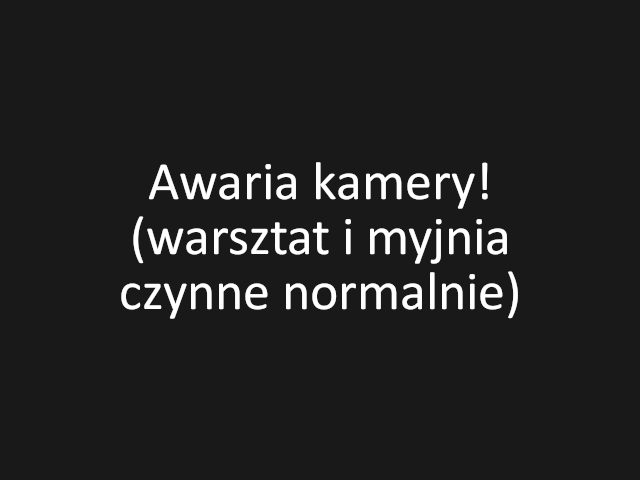
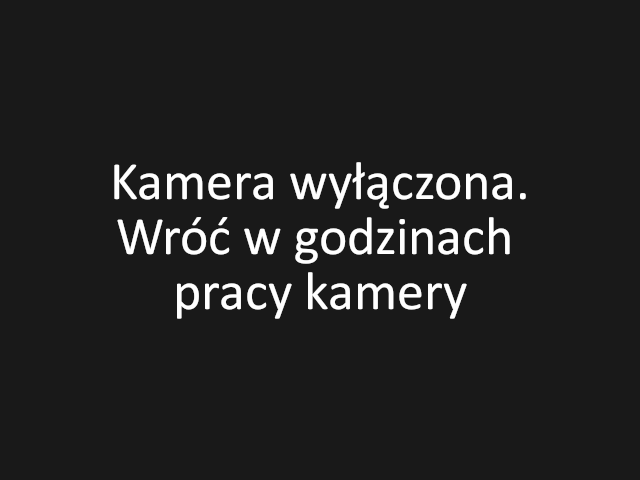
fix of cached img instead new one

Changed region(s): [[0.1562, 0.3438, 0.8125, 0.6875]]

diff --git a/resources/views/pages/queue.blade.php b/resources/views/pages/queue.blade.php
@@ -55,7 +55,7 @@
     <p id="queue4" class="fs-3 text-white"></p>
 </div></div>
 <div class="d-flex justify-content-center" style="
-    background-image: url('{{ url('/api/photos/20') }}');
+    background-image: url('{{ url('/api/photos/21') }}');
     background-repeat: no-repeat;
     background-size:contain;
     background-position:center;
@@ -67,7 +67,7 @@
 </div>
 <div><br></div>
 <div class="d-flex justify-content-center" style="
-    background-image: url('{{ url('/api/photos/20') }}');
+    background-image: url('{{ url('/api/photos/21') }}');
     background-repeat: no-repeat;
     background-size:contain;
     background-position:center;

diff --git a/app/Http/Controllers/PhotoController.php b/app/Http/Controllers/PhotoController.php
@@ -25,6 +25,7 @@ class PhotoController extends Controller
         171 => "div7-light",
         178 => "div7-dark",
         20 => "camera_off",
+        21 => "camera_off_SU",
         400 => "1",
         401 => "2",
         402 => "3",
